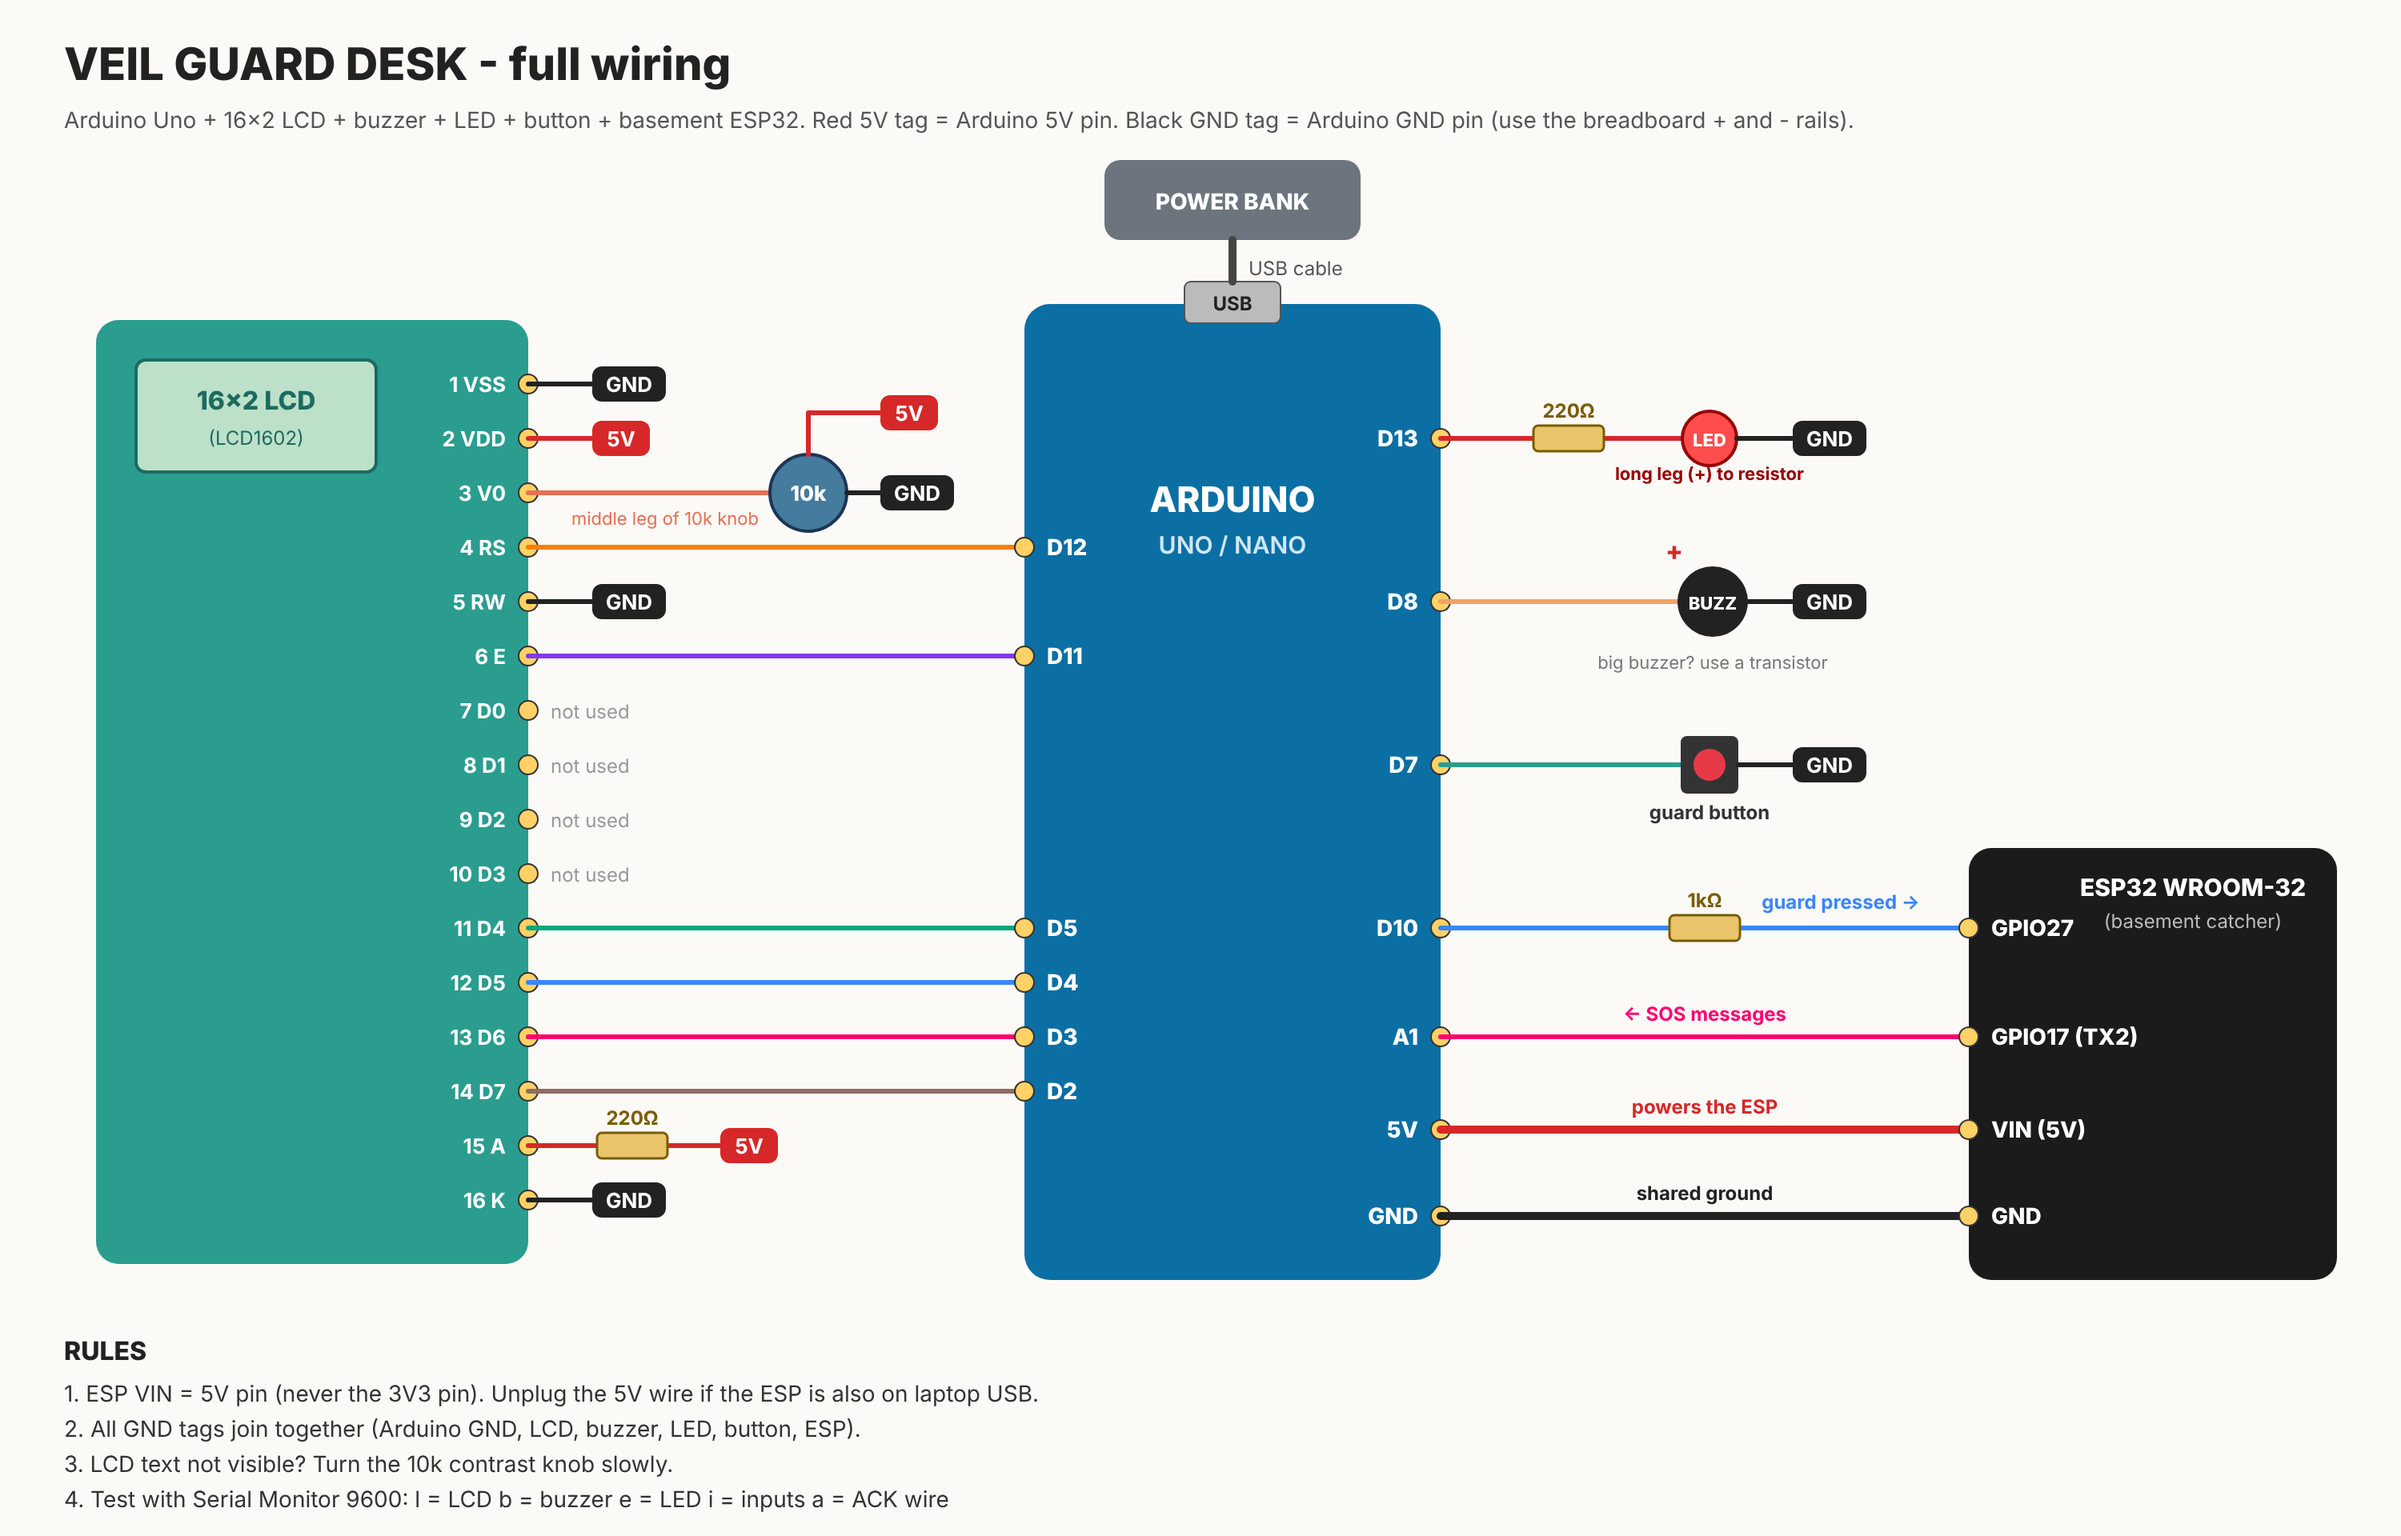
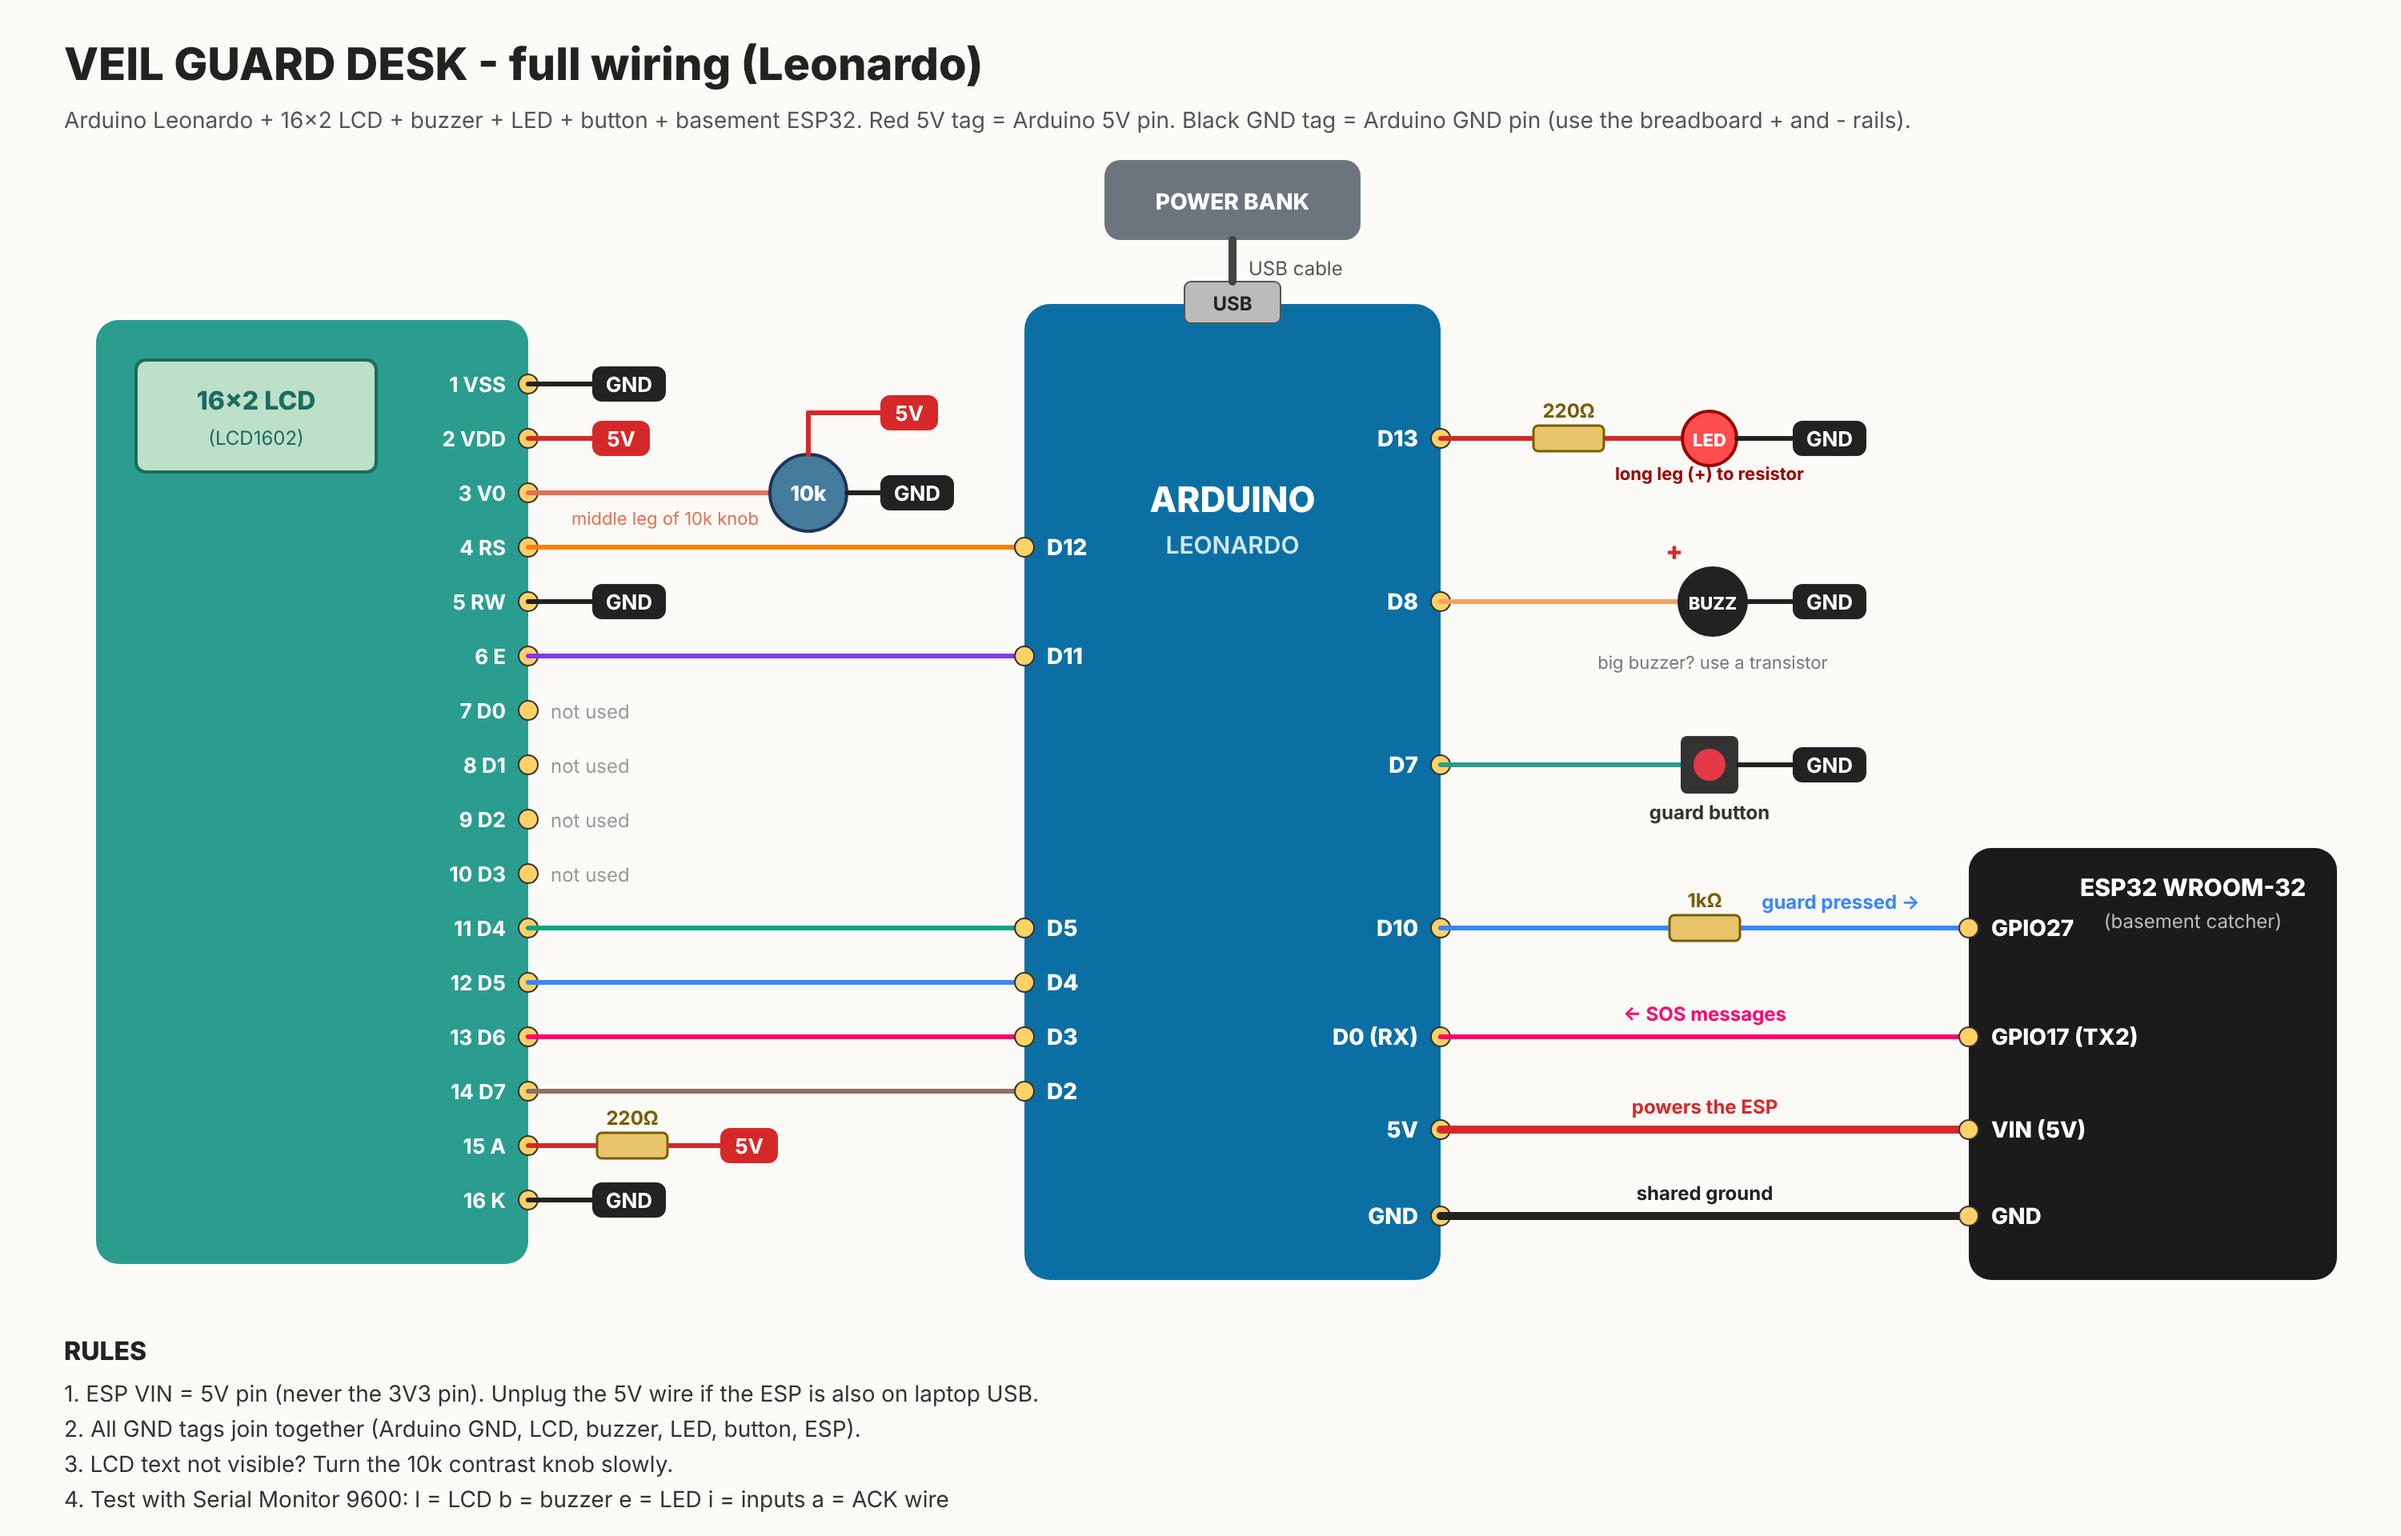
Desk: switch to Arduino Leonardo (ESP serial on D0/Serial1)
Claude-Session: https://claude.ai/code/session_01SDhc724y5oGqMwWAV6MqGW

Changed region(s): [[0.062, 0.0312, 0.775, 0.0938], [0.465, 0.3438, 0.558, 0.375], [0.558, 0.6562, 0.589, 0.6875]]

diff --git a/README.md b/README.md
@@ -16,7 +16,7 @@ No internet needed for the SOS path (ESP-NOW radio, works in basements).
 | `veil_bracelet_app/` | ESP32-C3 SuperMini (Partition: Huge APP) | Touch SOS, clasp reed snatch alarm, keychain relay, Bluetooth to phone |
 | `veil_keychain/` | ESP32-C3 + latch | One press = SOS, then powers itself off |
 | `veil_basement_desk/` | ESP32 WROOM-32 | Catches SOS, tells desk Arduino, sends HELP COMING |
-| `veil_desk_arduino/` | Arduino Uno/Nano + 16x2 LCD | Shows SOS source, buzzer, guard button |
+| `veil_desk_arduino/` | Arduino Leonardo + 16x2 LCD | Shows SOS source, buzzer, guard button |
 | `index.html` | Phone (Chrome, Android) | Live status, siren, GPS, WhatsApp/SMS/call |
 
 The phone app needs HTTPS for Bluetooth: turn on GitHub Pages (Settings -> Pages -> Deploy from branch `main`, root).
